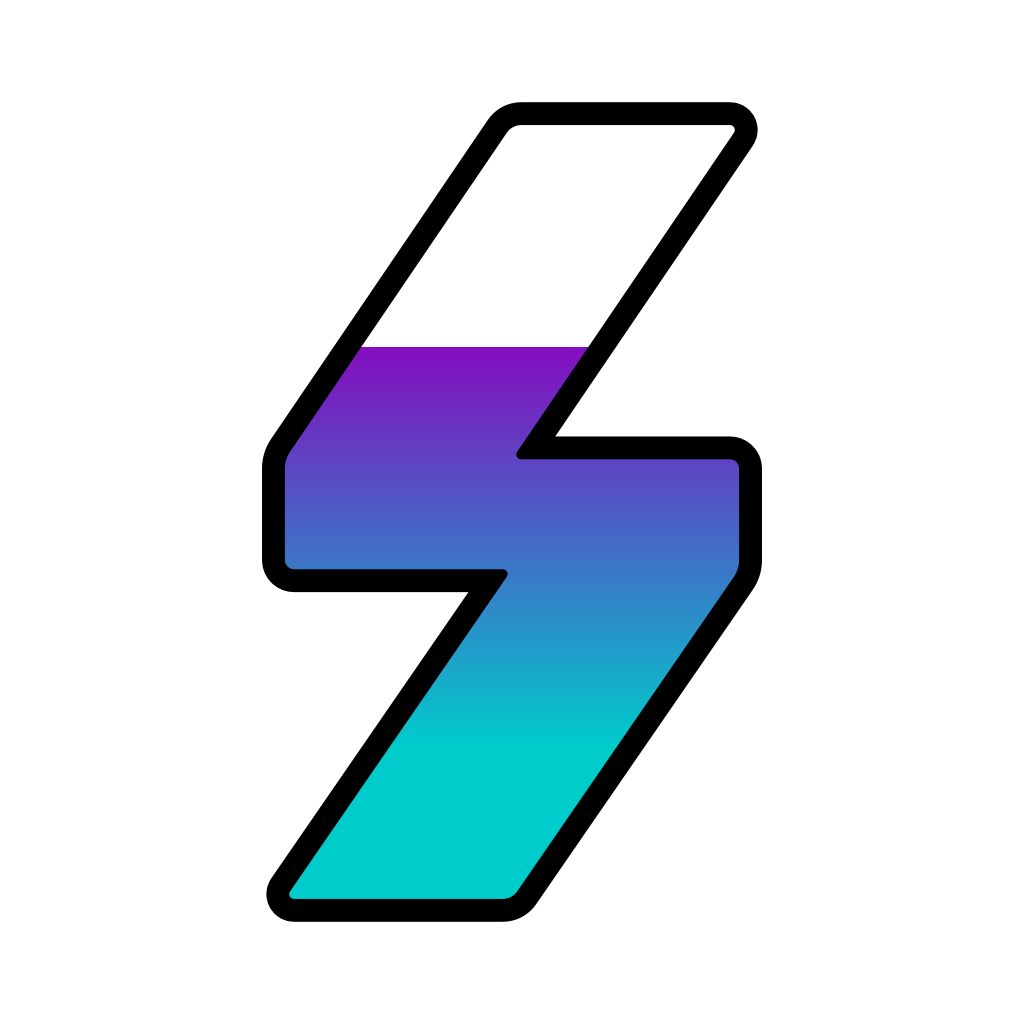
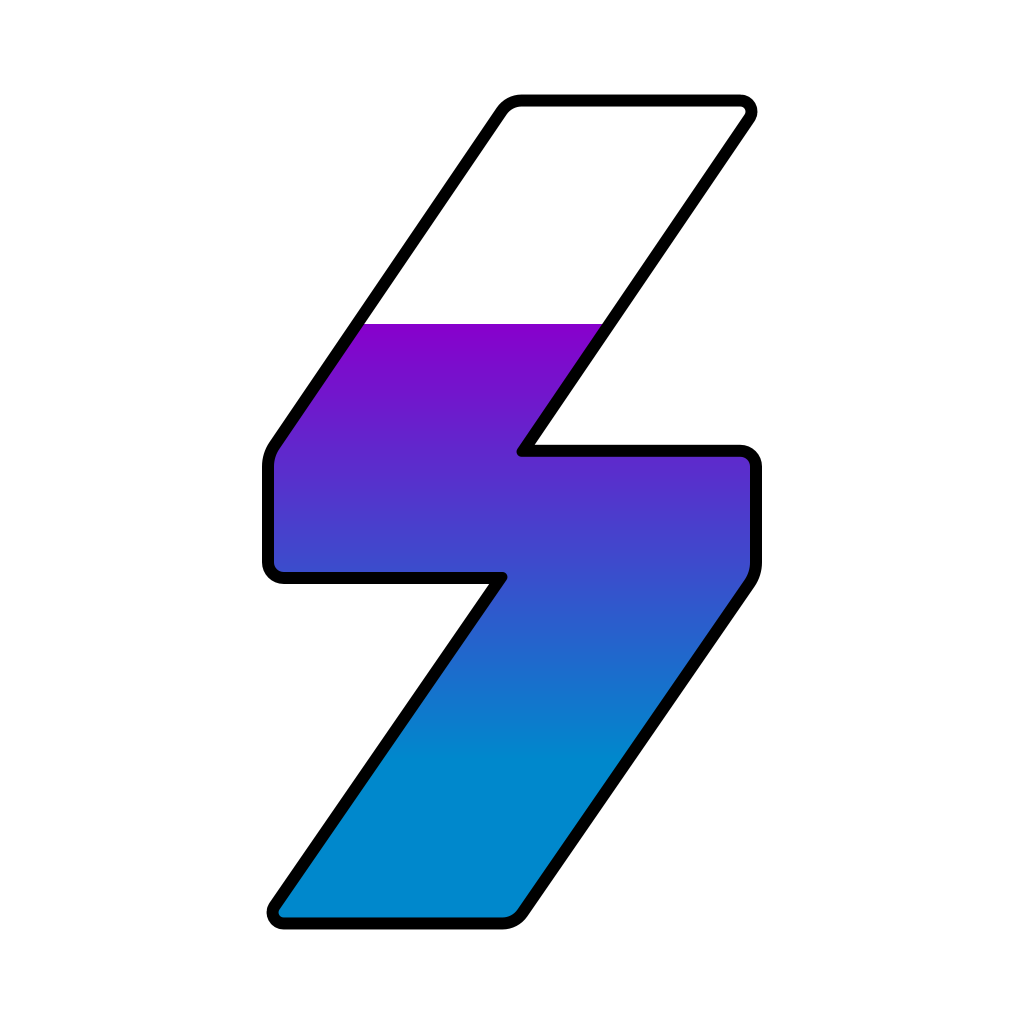
Fix Android exporting

Changed region(s): [[0.25, 0.0938, 0.75, 0.9062], [0.4062, 0.1562, 0.4688, 0.25]]

diff --git a/lib/features/backup/data_backup_screen.dart b/lib/features/backup/data_backup_screen.dart
@@ -1,4 +1,6 @@
+import 'dart:convert';
 import 'dart:io';
+import 'dart:typed_data';
 
 import 'package:file_picker/file_picker.dart';
 import 'package:flutter/material.dart';
@@ -35,17 +37,21 @@ class _DataBackupScreenState extends ConsumerState<DataBackupScreen> {
       final timestamp = DateTime.now().toUtc().toIso8601String().replaceAll(':', '-');
       final fileName = 'pacey-backup-$timestamp.json';
 
+      final bytes = Uint8List.fromList(utf8.encode(json));
       final outputFile = await FilePicker.platform.saveFile(
         dialogTitle: l10n.exportData,
         fileName: fileName,
         type: FileType.custom,
         allowedExtensions: ['json'],
+        bytes: bytes,
       );
 
       if (outputFile == null) return;
 
-      final file = File(outputFile);
-      await file.writeAsString(json);
+      if (!Platform.isAndroid && !Platform.isIOS) {
+        final file = File(outputFile);
+        await file.writeAsBytes(bytes);
+      }
 
       if (!mounted) return;
       ScaffoldMessenger.of(context).showSnackBar(